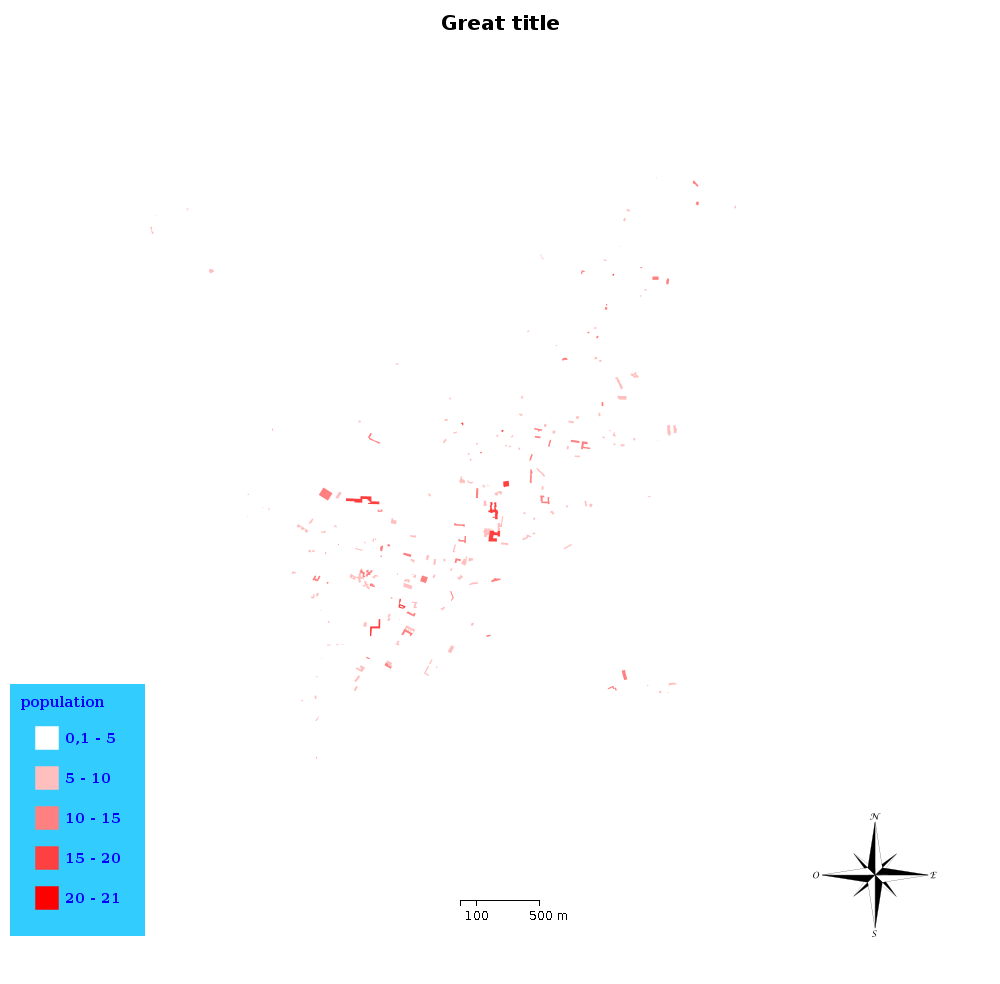
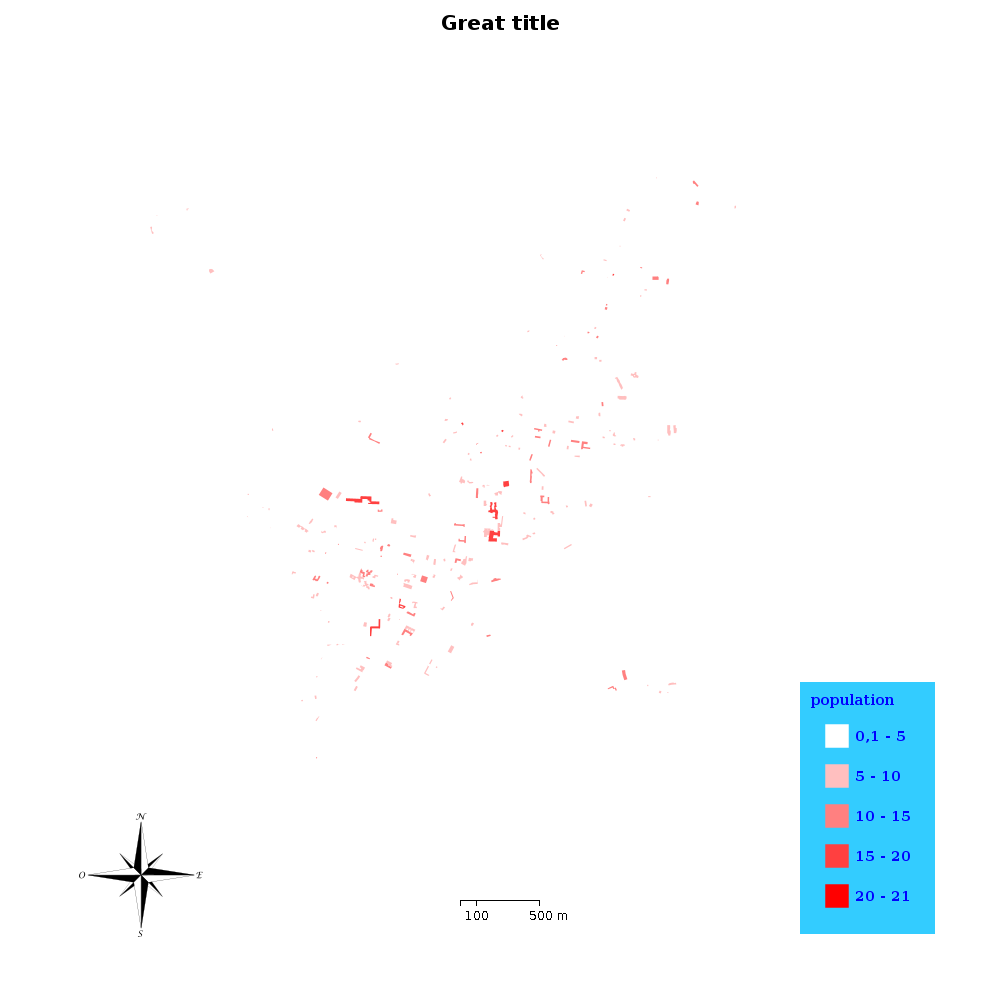
Can give a position for the legend on the map image

Changed region(s): [[0.775, 0.6707, 0.961, 0.9756], [0.0, 0.6707, 0.186, 0.9756]]

diff --git a/src/main/java/org/legend/model/Legend.java b/src/main/java/org/legend/model/Legend.java
@@ -1,4 +1,40 @@
 package org.legend.model;
 
+import java.awt.image.BufferedImage;
+
 public class Legend {
+
+    static int positionX;
+    static int positionY;
+
+    public void setPosition(String position, BufferedImage image, BufferedImage legendBufferedImage) {
+        int imgWidth = image.getWidth();
+        int imgHeight = image.getWidth();
+        switch (position){
+            case "bottom":
+                positionY = imgHeight - legendBufferedImage.getHeight()/2;
+                positionX = imgWidth/2 - legendBufferedImage.getWidth()/2;
+                break;
+            case "bottomLeft":
+                positionY = imgHeight - legendBufferedImage.getHeight() - imgHeight/15;
+                positionX = legendBufferedImage.getWidth()/3;
+                break;
+            case "bottomRight":
+                positionY = imgHeight - legendBufferedImage.getHeight() - imgHeight/15;
+                positionX = imgWidth - imgWidth/5;
+                break;
+            case "top":
+                positionY = legendBufferedImage.getHeight()/2;
+                positionX = imgWidth/2 - legendBufferedImage.getWidth()/2;
+                break;
+        }
+    }
+
+    public int getPositionX() {
+        return positionX;
+    }
+
+    public int getPositionY() {
+        return positionY;
+    }
 }

diff --git a/src/test/java/org/legend/imageBuilder/BufferedImageLegendGraphicBuilderTest.java b/src/test/java/org/legend/imageBuilder/BufferedImageLegendGraphicBuilderTest.java
@@ -28,6 +28,7 @@ import org.geotools.styling.Stroke;
 import org.geotools.util.URLs;
 import org.geotools.xml.styling.SLDParser;
 import org.legend.model.Compass;
+import org.legend.model.Legend;
 import org.legend.model.Scale;
 import org.legend.utils.LayerUtils;
 import org.locationtech.jts.geom.Geometry;
@@ -285,12 +286,14 @@ public class BufferedImageLegendGraphicBuilderTest extends TestCase {
         // paint both images, preserving the alpha channels
         Graphics g = combined.getGraphics();
         g.drawImage(image, 0, 0, null);
-        g.drawImage(legend, 10, image.getHeight()-300, null);
+        Legend modelLegend = new Legend();
+        modelLegend.setPosition("bottomRight",image,legend);
+        g.drawImage(legend, modelLegend.getPositionX(), modelLegend.getPositionY(), null);
 
         // Generate the compass image
         Compass compass = new Compass("data/img/Rose_des_vents.svg");
         BufferedImage compassBufIma = compass.paintCompass();
-        compass.setPosition("bottomRight", image, compassBufIma);
+        compass.setPosition("bottomLeft", image, compassBufIma);
         g.drawImage(compassBufIma, compass.getPositionX(), compass.getPositionY(), null);
 
         // Generate the map scale

diff --git a/src/main/java/org/legend/model/Compass.java b/src/main/java/org/legend/model/Compass.java
@@ -104,7 +104,7 @@ public class Compass {
                 break;
             case "bottomLeft":
                 positionY = imgHeight - imgHeight/5;
-                positionX = imgWidth/5 - compassBufferedImage.getWidth()/2;
+                positionX = imgWidth/15;
                 break;
             case "bottomRight":
                 positionY = imgHeight - imgHeight/5;
